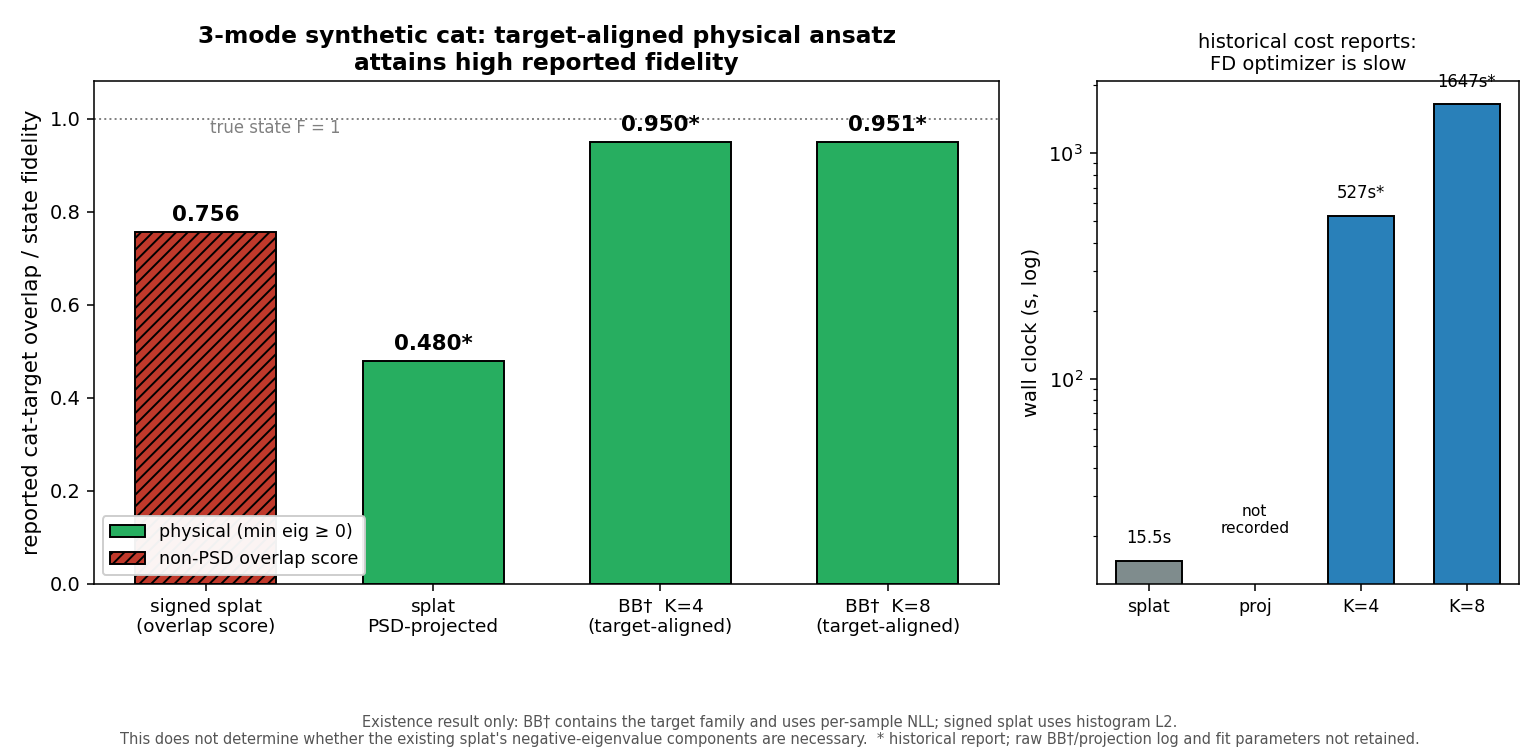
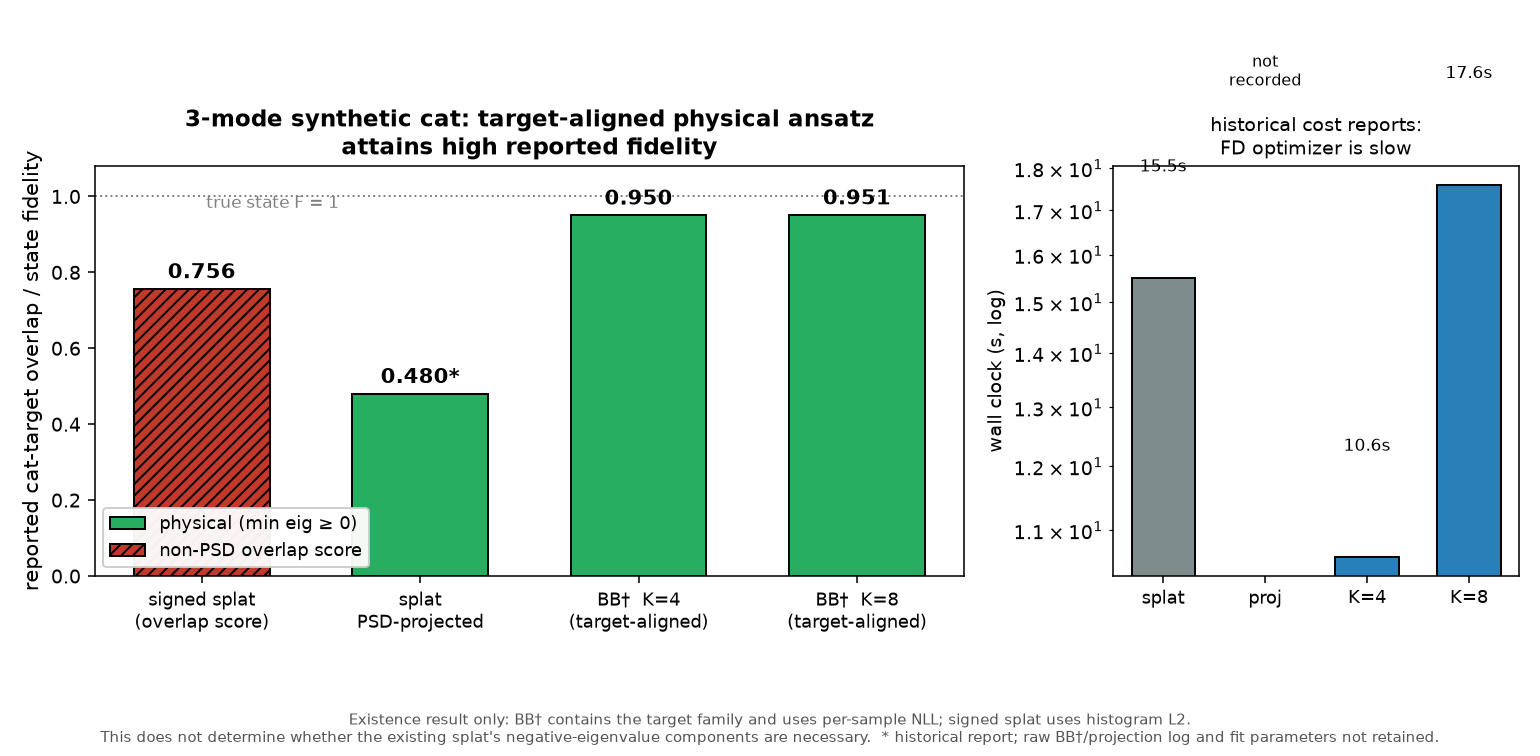
docs(#25): evidence-backed analytic-gradient results — registry, log, figure
Commit the raw stdout log of the analytic-gradient 3-mode BB-dagger runs
(K=4 at data seeds 42/1/2, K=8 at seed 42; source commit 12ba509) and
promote them to committed_raw_log primaries in the issue-8 registry,
resolving the BB-dagger provenance gap. Seed-42 fidelities reproduce the
historical FD reports to 4 decimals (K=4 0.9501, K=8 0.9507; NLL 3.9108)
at 50-94x speed (527 s -> 10.6 s, 1647 s -> 17.6 s); seeds 1/2 improve
(0.9434 -> 0.9593, 0.9332 -> 0.9566) as the exact gradient removes FD
truncation noise. Figure regenerated from the updated registry; README
and research log record the verdict.

Claude-Session: https://claude.ai/code/session_01DS3h5oDp4wxB25u7Q9sRFx

diff --git a/tests/test_issue8_results.py b/tests/test_issue8_results.py
@@ -48,7 +48,10 @@ def test_committed_registry_validates():
     assert {record["data_seed"] for record in raw} == {42, 1, 2}
     assert {
         record["provenance"]["source_commit"] for record in raw
-    } == {"4259cab45f89b84bfc86bece38eeeb56378cd3cc"}
+    } == {
+        "4259cab45f89b84bfc86bece38eeeb56378cd3cc",  # exp06 signed-splat log
+        "12ba509cb94af4ee950282aa6d71843b25501bb3",  # bbdag analytic-gradient log
+    }
     for record in raw:
         provenance = record["provenance"]
         artifact = ROOT / provenance["artifact_path"]
@@ -63,14 +66,19 @@ def test_figure_primary_and_evidence_marks():
     assert [item["wall_label"] for item in figure] == [
         "splat", "proj", "K=4", "K=8",
     ]
-    assert [item["evidence_mark"] for item in figure] == ["", "*", "*", "*"]
+    assert [item["evidence_mark"] for item in figure] == ["", "*", "", ""]
 
     primary = next(item for item in figure if item["id"] == "bbdag_k4")
     assert primary["primary_record_id"] == (
-        "bbdag.main.k4.seed42.exact_state_fidelity"
+        "bbdag.analytic.k4.seed42.exact_state_fidelity"
     )
     assert primary["record"]["iters"] == 200
-    assert primary["wall_s"] == 527
+    assert primary["record"]["gradient"] == "analytic"
+    assert primary["wall_s"] < 60  # issue #25: analytic gradient, not FD's 527 s
+
+    historical = _record(registry, "bbdag.main.k4.seed42.exact_state_fidelity")
+    assert historical["evidence_level"] == "historical_report_only"
+    assert historical["value"] == primary["value"]  # FD fidelity reproduced
 
     robustness = _record(
         registry, "bbdag.robustness.k4.seed42.exact_state_fidelity"

diff --git a/experiments/08_positivity/figure_issue8.py b/experiments/08_positivity/figure_issue8.py
@@ -7,8 +7,9 @@ Renders historical reported values for the synthetic three-mode cat:
 BB^dagger contains the target family and uses per-sample NLL; the signed splat
 is a different representation trained with histogram L2. The figure therefore
 shows an existence result, not a physicalization of the existing splat.
-BB^dagger/projection raw logs and fit parameters were not retained; the result
-registry marks those values as historical reports rather than raw evidence.
+The BB^dagger primaries are the analytic-gradient runs (issue #25) with a
+committed raw log; the PSD-projection value remains a historical report
+(no retained raw log), marked * by the registry.
 """
 import pathlib
 

diff --git a/docs/research-log.md b/docs/research-log.md
@@ -423,3 +423,46 @@ criterion measures). (b) The slice lower bound is upgraded to theorem-grade
 K_axis = Ω(m_1D) (common width) via even/odd orthogonality:
 ||(I-P_U)F||^2 = ||(I-P_U)C||^2||C||^2 + ||(I-P_U)S||^2||S||^2. (c) Ω(m_1D^2) at
 bounded norm stays open. Note corrected accordingly; pivoting to track A next.
+
+## 2026-07-13 — Track A step 1: analytic BB-dagger gradients (issue #25 resolved)
+
+Tried: replace the finite-difference NLL gradient in fit_bbdagM (the priority
+bottleneck named by the science recommendations: FD made 3-mode BB-dagger fits
+cost 300-1600 s vs splat's 15 s) with the exact closed-form gradient. Both
+pieces are Gaussian-overlap calculus: (a) Z = z^dag G z with G the
+coherent-overlap Gram matrix, so dZ/d(z, alpha) differentiates log<a|b> =
+-|a|^2/2 - |b|^2/2 + conj(a)b; (b) the sample term differentiates
+log|psi|^2 through the coherent wavefunction, d log f/d(Re beta, Im beta) =
+(sqrt2(x - sqrt2 Re beta) - i Im beta, i(sqrt2 x - Re beta)), pulled back
+through the LO rotation beta = alpha e^{-i theta}. FD path retained as the
+independent reference (fit_bbdagM(gradient="fd")).
+
+Happened (exp06 data, 27 triples x 2000 shots, K=4 iters=200, committed raw
+log experiments/08_positivity/out_bbdag_3mode_analytic.log, source commit
+12ba509):
+- verification: analytic vs central-diff max relative error 8e-10 / 7e-9 /
+  2e-8 at (K,M) = (1,1)/(3,2)/(4,3), pinned in tests; same-init analytic and
+  FD Adam trajectories land on the same state (rtol 1e-4).
+- seed 42 K=4: F=0.9501 wall=10.6 s -- reproduces the historical FD report
+  (0.9501, 527 s) to 4 decimals at 50x speed; training NLL 3.9108 also matches
+  the historical report.
+- seed 42 K=8: F=0.9507 wall=17.6 s (FD: 0.9507, 1647 s -- 94x).
+- seeds 1/2 K=4: F=0.9593 / 0.9566 (FD reports were 0.9434 / 0.9332) -- the
+  exact gradient removes FD truncation noise (eps=1e-5) and lands higher; the
+  seed-42 agreement shows this is the same optimum basin, not a different
+  algorithm.
+- provenance: the four analytic runs replace the historical_report_only
+  BB-dagger primaries in the issue-8 registry with committed_raw_log records
+  (figure regenerated); evidence bundles (samples, trace, fitted parameters)
+  under the ignored out/ as before. The acceptance criteria of issue #25
+  (central-diff match, O(10 s) 3-mode fit, evidence-backed reproduction of the
+  reported fidelities) are all met.
+
+Learned: "physical AND fast" now holds in a single method -- the BB-dagger
+reconstructor sits at the splat's timescale (10-18 s vs 15 s) while keeping
+PSD by construction, at F 0.95-0.96 vs the splat's non-physical 0.62-0.76
+overlap score on the same data. The iteration-cost argument was exactly the
+splat analytic-gradient story replayed (PR #1: 29 s -> 1.6 s): one closed-form
+pass replaces 2 x 2K(M+1) NLL evaluations per step. This unblocks the rest of
+track A: matched-objective / fair-baseline comparisons (#27) and out-of-family
+targets (#28) now cost seconds per run instead of tens of minutes.

diff --git a/README.md b/README.md
@@ -154,7 +154,15 @@ python experiments/01_cat_state/run.py   # データ生成 → 再構成 → 図
           達成できた」という存在結果。signed splat の物理化ではなく、表現も学習損失も異なる
           (BB†: per-sample NLL、splat: histogram L2)。したがって現行 splat 内の負固有成分の必要性は
           判定しない。未決: 族外ターゲット(squeezed/非等振幅/mixed/損失)、matched-objective 比較、
-          train/test split、解析勾配(現状 FD で ~300-1600s vs splat 15s)。
+          train/test split。
+        - **解析勾配化(issue #25、2026-07-13 解決)**: NLL 勾配を閉形式化(`bbdagM.nll_and_grad`。
+          Z=z†Gz は coherent overlap の Gram、サンプル項は LO 回転の chain rule。central-diff と
+          1e-9〜1e-8 級一致をテストで固定)。3モード K=4 が **527 s → 10.6 s(50×)**、K=8 が
+          1647 s → 17.6 s(94×)。seed 42 は FD 報告値を 4桁一致で再現(K=4 F=0.9501、K=8 F=0.9507、
+          NLL 3.9108)、seeds 1/2 は FD ノイズ消失で改善(0.9434→0.9593、0.9332→0.9566)。
+          raw log をコミット(`experiments/08_positivity/out_bbdag_3mode_analytic.log`)し、
+          BB† の provenance 欠如を解消(registry の primary を committed_raw_log に置換)。
+          → 「物理保証つき・かつ速い」が単一手法で成立し、splat(15 s)と同スケールに。
 - [x] 2モード拡張(実験04・07。分離可能スプラットは F=0.50 で失敗 → 完全 4×4 共分散で
       F=MLE 同等(20シード検定で互角確定)・速度 7.4倍。もつれ ⟺ 傾いた共分散を実証)
 - [x] 3モード拡張(実験06。splat F 0.62–0.76 / ~15 s vs MLE(512次元)F 0.676 / 900 s DNF